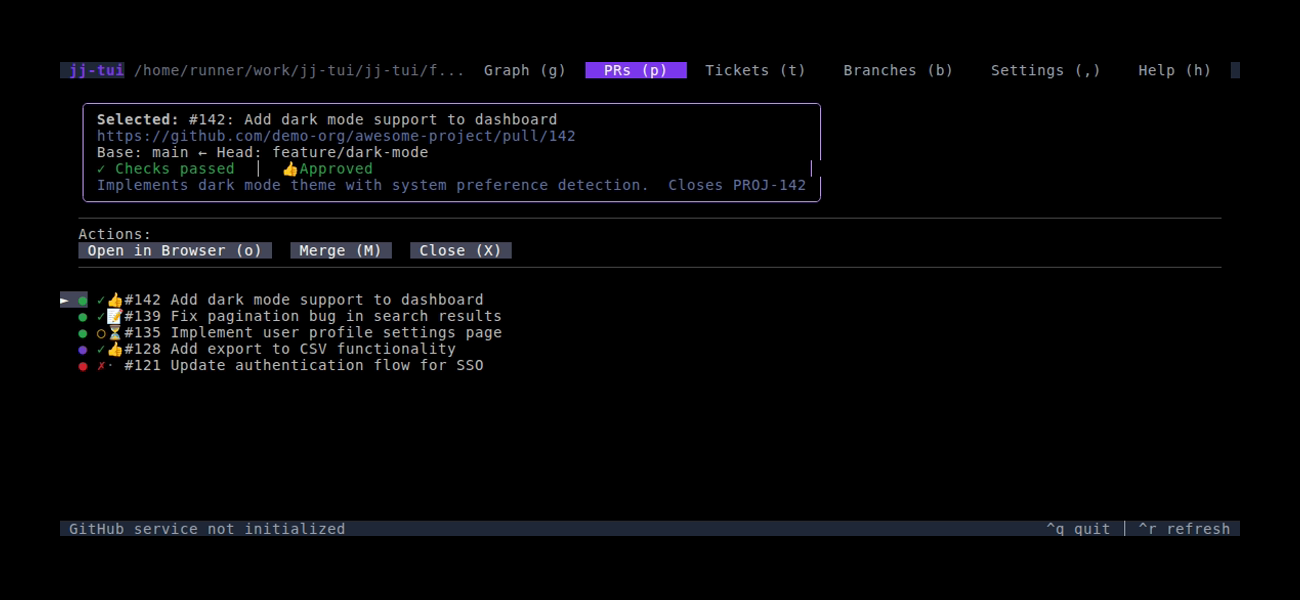
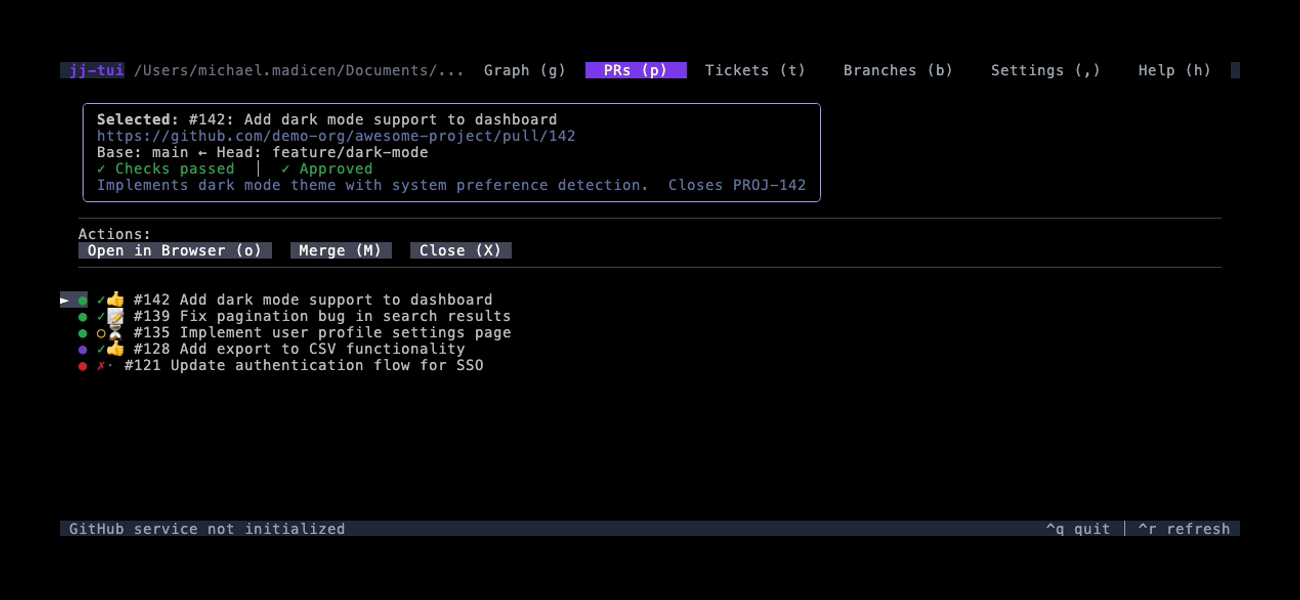
fix: use text symbols for PR review status in detail box for consistent width

diff --git a/internal/tui/view/prs.go b/internal/tui/view/prs.go
@@ -64,14 +64,14 @@ func (r *Renderer) PullRequests(data PRData) PRResult {
 			checkPart = lipgloss.NewStyle().Foreground(lipgloss.Color("#6a737d")).Render("· No checks")
 		}
 
-		// Review status
+		// Review status (using text symbols for consistent terminal rendering)
 		switch pr.ReviewStatus {
 		case models.ReviewStatusApproved:
-			reviewPart = lipgloss.NewStyle().Foreground(lipgloss.Color("#2ea44f")).Render("👍 Approved")
+			reviewPart = lipgloss.NewStyle().Foreground(lipgloss.Color("#2ea44f")).Render("✓ Approved")
 		case models.ReviewStatusChangesRequested:
-			reviewPart = lipgloss.NewStyle().Foreground(lipgloss.Color("#cb2431")).Render("📝 Changes requested")
+			reviewPart = lipgloss.NewStyle().Foreground(lipgloss.Color("#cb2431")).Render("✗ Changes requested")
 		case models.ReviewStatusPending:
-			reviewPart = lipgloss.NewStyle().Foreground(lipgloss.Color("#dbab09")).Render("⏳ Review pending")
+			reviewPart = lipgloss.NewStyle().Foreground(lipgloss.Color("#dbab09")).Render("○ Review pending")
 		default:
 			reviewPart = lipgloss.NewStyle().Foreground(lipgloss.Color("#6a737d")).Render("· No reviews")
 		}
